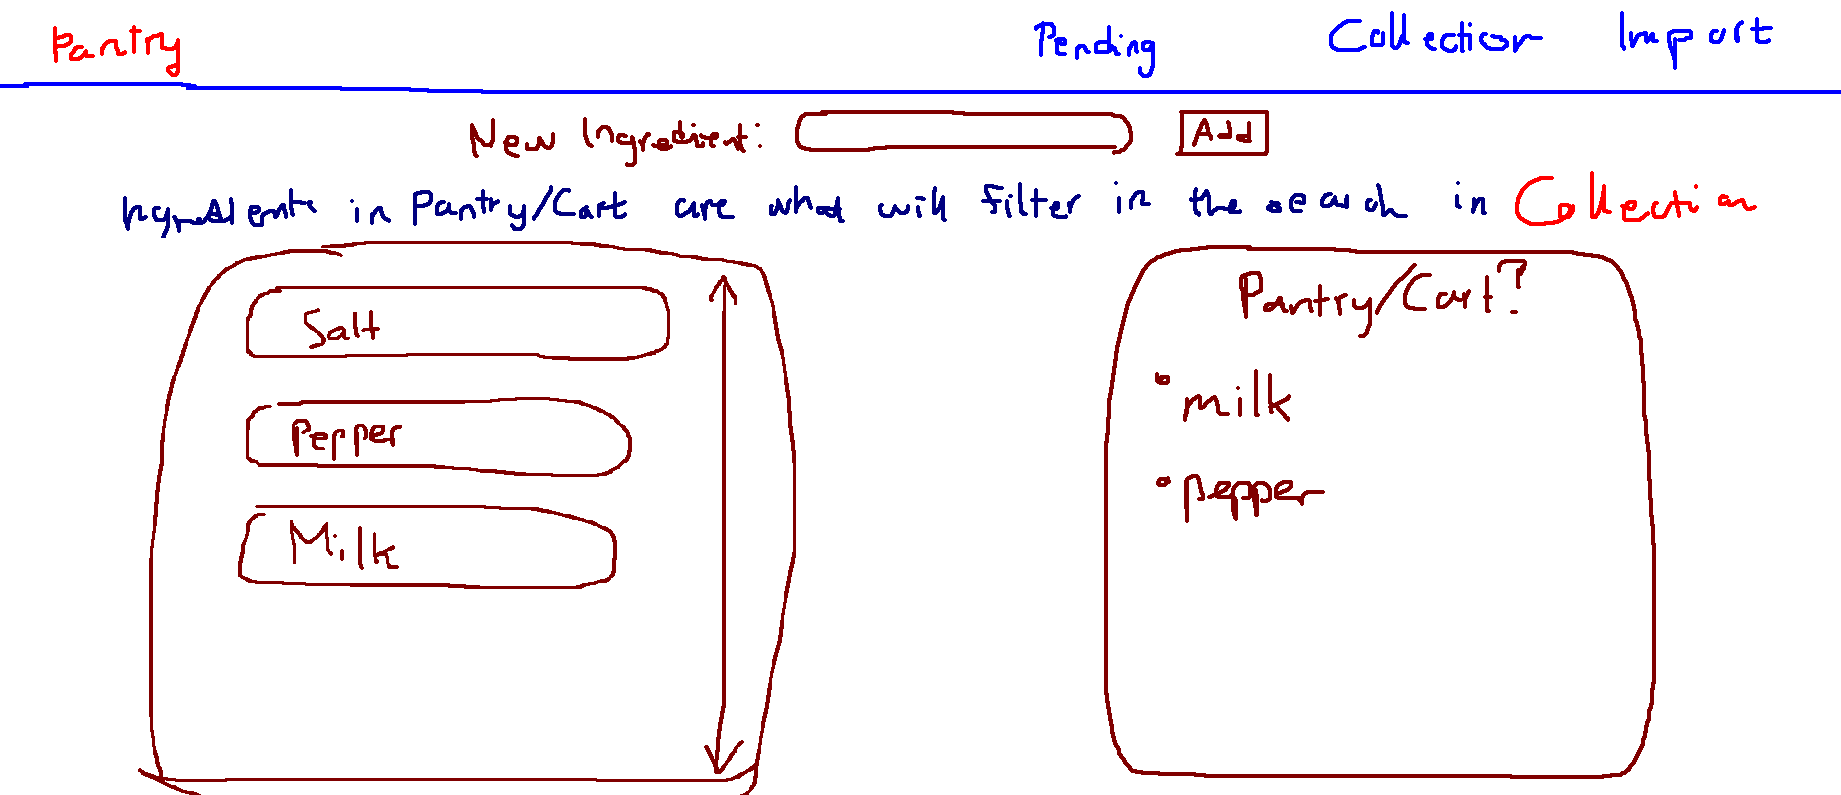
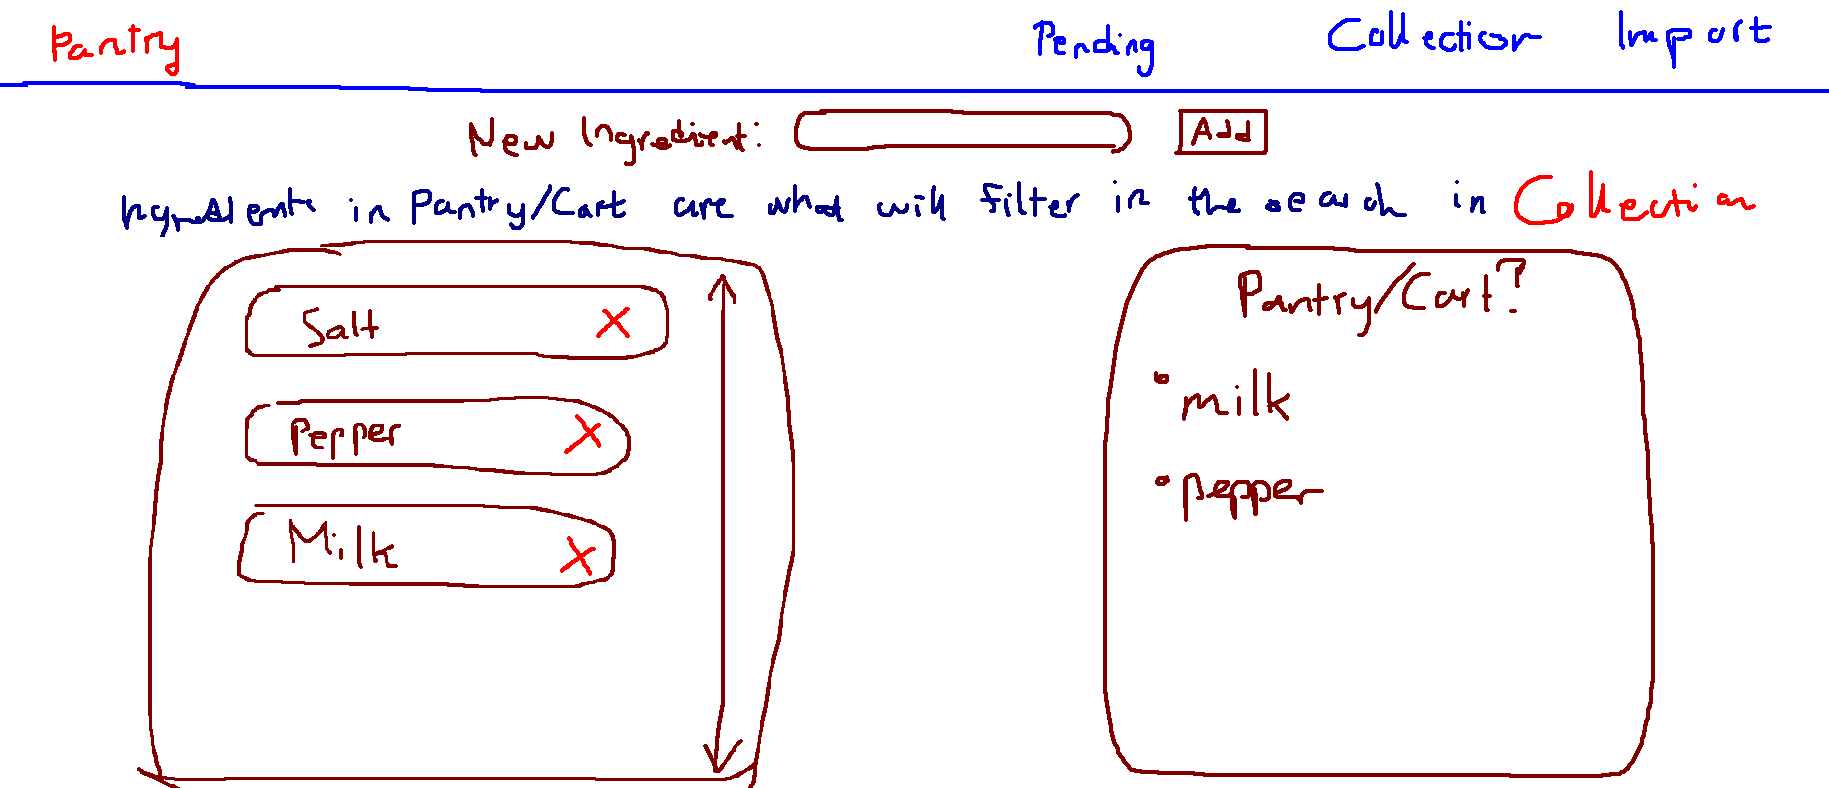
pantry html

diff --git a/pages/home.html b/pages/home.html
@@ -43,7 +43,7 @@
             <a class="link-card" href="/pages/pantry.html">
                 <div class="card-title">Pantry</div>
                 <div class="card-text">Enter ingredients you <span class="emphasize">typically have in your
-                        pantry</span>. Your <span class="keyword">"Cart"</span> will actually contain the
+                        pantry</span>. Your <span class="keyword">"Basket"</span> will actually contain the
                     ingredients you wish to use for <span class="emphasize">filtering recipes by ingredient</span>
                     in the <span class="keyword">Recipes
                         Collection</span> page</div>
@@ -61,7 +61,7 @@
                 <div class="card-text">Bread and butter of this <span class="emphasize">recipe tracker</span>. Can
                     filter by
                     <span class="emphasize">name (partial match)</span> or <span class="emphasize">ingredients</span> in
-                    your <span class="keyword">"Cart"</span> (modified in the <span class="keyword">Pantry</span>).
+                    your <span class="keyword">"Basket"</span> (modified in the <span class="keyword">Pantry</span>).
                     <br />
                     <br />
                     <span class="emphasize">Note</span> (filter by ingredient & allow substitutes): a recipe will be

diff --git a/pages/pantry.html b/pages/pantry.html
@@ -33,7 +33,28 @@
     </nav>
 
     <main id="main-content">
+        <section id="search-container">
+            <form id="search-form">
+                <label for="ingredient-input">New Ingredient: </label>
+                <input id="ingredient-input" type="text" />
+                <input id="add-button" type="submit" value="Add"/>
+            </form>
+        </section>
 
+        <aside id="description">Ingredients in "Basket" are what will filter in the search in Recipes Collection</aside>
+    
+        <section id="ingredients-area">
+            <div id="pantry">
+                <div class="ingredient-card">Salt</div>
+                <div class="ingredient-card">Pepper</div>
+                <div class="ingredient-card">Milk</div>
+            </div>
+
+            <div id="basket">
+                <div class="ingredient-card">Milk</div>
+                <div class="ingredient-card">Pepper</div>
+            </div>
+        </section>
     </main>
 </body>
 

diff --git a/styles/signin-styles.css b/styles/signin-styles.css
@@ -6,6 +6,9 @@
   --hover-button-background: #491e13;
   --input-background: rgb(255, 245, 245);
   --input-border-color: rgb(255, 255, 255);
+  --disabled-button: rgb(105, 105, 105);
+  --disabled-button-text: rgb(119, 119, 119);
+  --disabled-button-border: rgb(160, 160, 160);
 }
 
 body {
@@ -70,9 +73,9 @@ body {
       }
 
       button.disabled {
-        background-color: rgb(105, 105, 105);
-        color: rgb(119, 119, 119);
-        border-color: rgb(160, 160, 160);
+        background-color: var(--disabled-button);
+        color: var(--disabled-button-text);
+        border-color: var(--disabled-button-border);
       }
 
       button.disabled:hover {

diff --git a/styles/shared-styles.css b/styles/shared-styles.css
@@ -3,6 +3,7 @@
   --nav-bar-background: rgb(36, 10, 10);
   --nav-bar-text: rgb(255, 238, 238);
   --current-page-link-color: rgb(255, 107, 107);
+  --nav-bar-shadow: black;
 }
 
 body {
@@ -19,6 +20,7 @@ body {
     text-decoration: underline;
 
     background-color: var(--nav-bar-background);
+    box-shadow: 0 0 1em var(--nav-bar-shadow);
     height: 5em;
     padding: 0 4em;
 

diff --git a/README.md b/README.md
@@ -3,11 +3,11 @@ I'm making a ***recipe tracker***, which can help me track, well, recipes. I can
 
 *Core idea:* In a lot of recipes, there might be flexibility in certain listed ingredients in terms of substitutes or optionality. The burden of that decision is on the user. Ex: "are chocolate chips optional on a brownie?"—— if listed as a must-have, for example, someone who has all the baking ingredients but lacking chocolate chips may be able to still bake brownies, but an algorithm that does not consider optionality/substitutes may not show that, if the specific recipe calls for chocolate chips. Maybe this is okay if the user really requires chocolate chips! But the user may want to mark it optional. For my current plan, I'm thinking of doing an account system, for the user creates "an account" (username and password) and uses that to log-in later. I believe a low-security version of this is doable if I figure out persistence in Javascript (won't be localStorage, as that kind of defeats the purpose of having an "account"). That will be the first page the user encounters. There will be 3 more pages that I've planned to facilitate the purpose of the website.  
 
-**Page 1: Pantry - Ingredients list**: Here will be rendered cards of all ingredients the user has entered. The purpose is not what they *currently have* per se, but more so common ingredients they may refer to often. They will then be able to drag-and-drop those ingredients into the **cart** (or basket?). Those things in the cart actually represent what they *do* currently have. The point is to avoid having to re-type "eggs", "milk", "chicken", "paprika", "water" over and over, as they are common ingredients most households have almost all the time. The user may continue to remove things out of the basket via also drag-n-drop. I'm also thinking of a feature where new ingredients introduced in recipes automatically show up in the pantry, but this is **tentative**.  
+**Page 1: Pantry - Ingredients list**: Here will be rendered cards of all ingredients the user has entered. The purpose is not what they *currently have* per se, but more so common ingredients they may refer to often. They will then be able to drag-and-drop those ingredients into the **basket** (or cart?). Those things in the basket actually represent what they *do* currently have. The point is to avoid having to re-type "eggs", "milk", "chicken", "paprika", "water" over and over, as they are common ingredients most households have almost all the time. The user may continue to remove things out of the basket via also drag-n-drop. User may delete a pantry ingredient. I'm also thinking of a feature where new ingredients introduced in recipes automatically show up in the pantry, but this is **tentative**.  
 
 **Page 2: Pending Recipes**: Recipes in draft. The user may create an instance of an empty "recipe" then edit it as they wish. They will only be able to mark it complete once all the required fields are entered. Once marked complete, the pending recipe will be "sent" to **Recipes Collection (Page 3)**. Some uses for this page may include writing down a name of a dish the user has just heard about but has no other information about it. Another use may be writing up a nameless recipe, or testing out a new recipe in writing. **This is the only page where they can edit a recipe, and the first place any recipe goes to**. I'm thinking of referring to an **external API** for pre-made recipes, but I haven't found a good one yet. Once I do, those "imported recipes" will still show up here. I might add another page for importing recipes, where the user selects which ones they want to take to this **Pending Recipes** page. Editing a draft will bring them to the **full page of the recipe**. When making the ingredients list, each ingredient will have a drop-down for whether it's optional. For substitutes, there will render a place to enter each substitute item (**max 3 per ingredient**). The user may **reset** their inputs in the **ingredient adder**.  
 
-**Page 3: Recipes Collection**: This is where the search algorithm searches for recipes based on user input (by ingredient OR by name). It will filter by ingredients the user has in their cart, and whether they allow substitutes and recipes whose optional ingredients are missing from the cart. The recipe cards' recipe titles will be a link to the **full page of the recipe**, which will be formatted similar to recipe websites we can already find online (but way, way simpler and without a 3-page backstory), and uses **query strings** to render the appropriate recipe. Substitutes will be listed as (Substitutes: item1 / item 2 / item 3...). The side panel of the **Recipes Collection** page will also be a sliding side panel to see what you've got currently in your cart. ~~The user can press "Cook!" on a recipe to note that they made it (this is so I can incorporate a table in somehow)~~  
+**Page 3: Recipes Collection**: This is where the search algorithm searches for recipes based on user input (by ingredient OR by name). It will filter by ingredients the user has in their basket, and whether they allow substitutes and recipes whose optional ingredients are missing from the basket. The recipe cards' recipe titles will be a link to the **full page of the recipe**, which will be formatted similar to recipe websites we can already find online (but way, way simpler and without a 3-page backstory), and uses **query strings** to render the appropriate recipe. Substitutes will be listed as (Substitutes: item1 / item 2 / item 3...). The side panel of the **Recipes Collection** page will also be a sliding side panel to see what you've got currently in your basket. ~~The user can press "Cook!" on a recipe to note that they made it (this is so I can incorporate a table in somehow)~~  
 
 ~~**Page 4: Stats**: Where the user can see dishes they've cooked the most. (Bonus if I could do it: make this stat include amount of times other people also cooked their recipe)~~  
 **Page 4: Import Recipes** from an external API. Will render recipe cards based on user search, then the user may pick which ones to send to **Pending Recipes** (where they can make it their own)  
@@ -36,7 +36,7 @@ I'm making a ***recipe tracker***, which can help me track, well, recipes. I can
 > 3.6) Page 3: each recipe card can redirect user to the right full-recipe page via **query string**  
 ### 4) Week of 4/27  
 > 4.1) Page 1: user can enter ingredient. Will not allow duplicates (unable to distinguish singular vs. plural nouns, but will ask the user to only use singular versions)  
-> 4.2) Page 1: user drag-and-drop ingredients into cart  
+> 4.2) Page 1: user drag-and-drop ingredients into basket  
 > 4.3) Polish up the account system (if still implementing that)  
 
 ## Requirements fulfilled  
